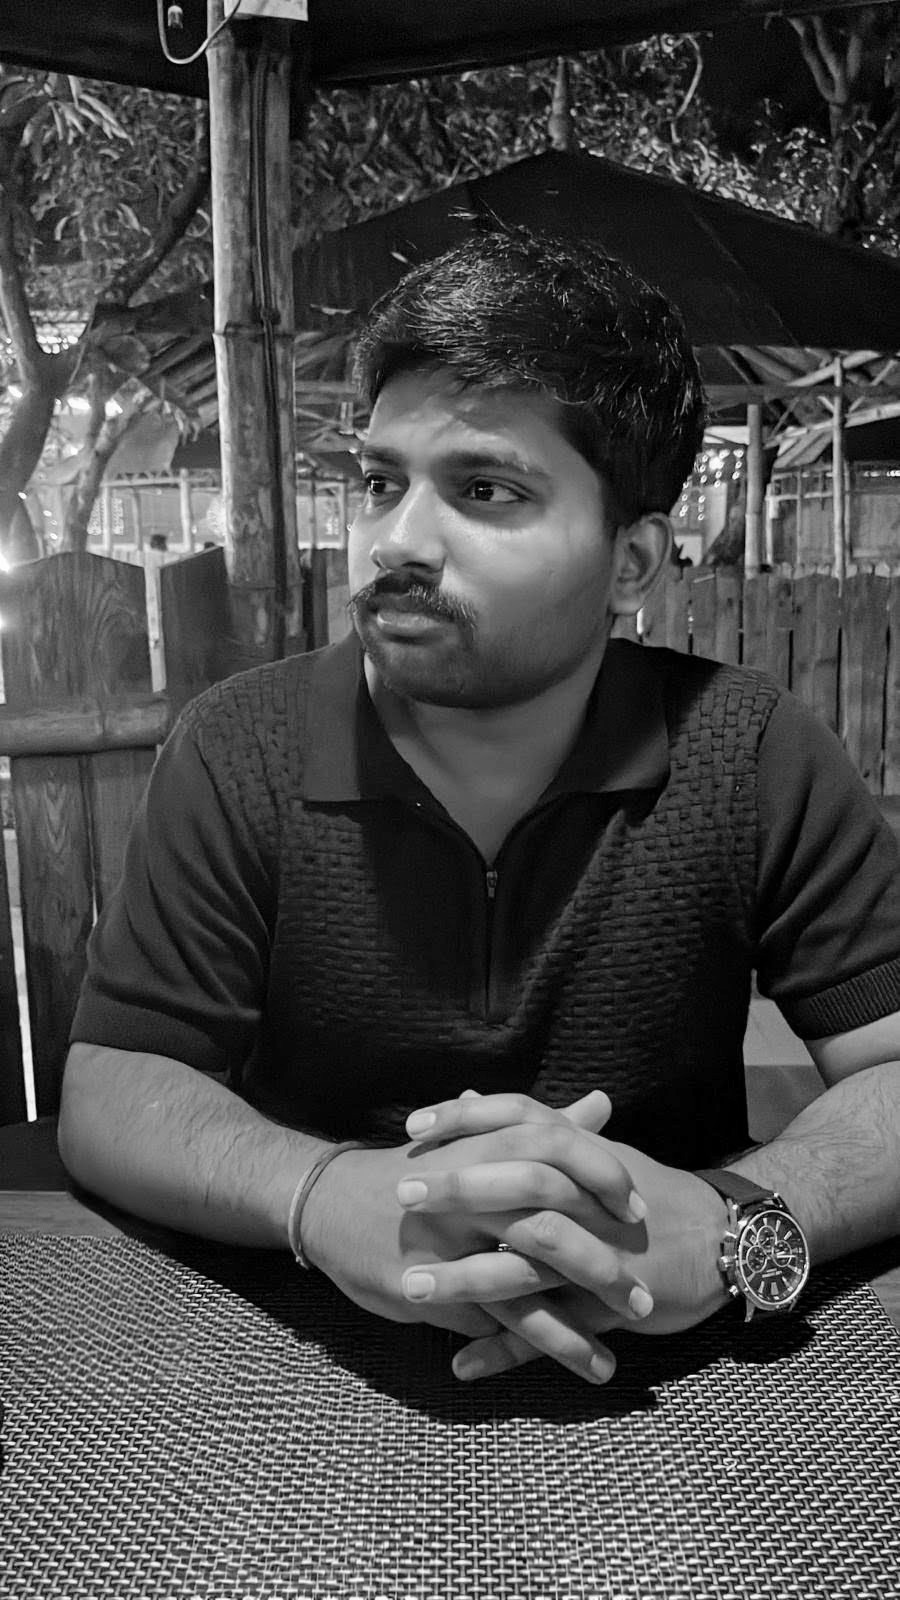
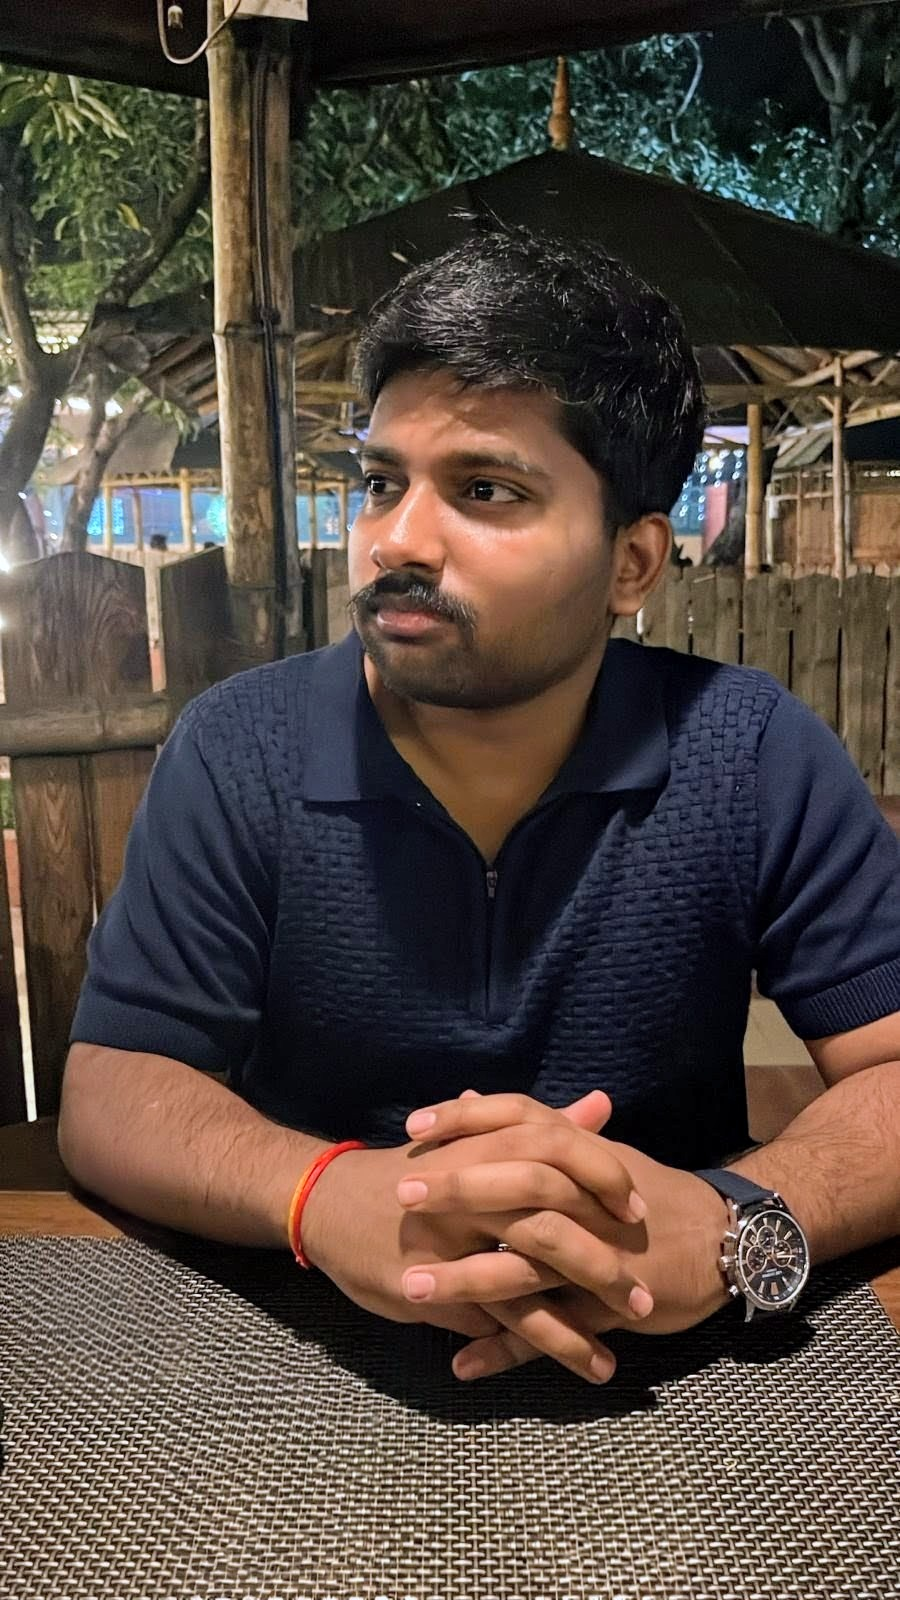
fix: Images glow when hovered and grayscale is removed on hover

diff --git a/src/components/sections/Hero.jsx b/src/components/sections/Hero.jsx
@@ -309,9 +309,8 @@ export default function Hero({ onTerminalToggle }) {
           </div>
         </div>
 
-        {/* Right Column - Images */}
         <div className="relative h-[500px] flex items-center justify-center">
-          <div className="relative z-10 w-64 h-80 bg-gradient-to-br from-green-500/20 to-cyan-500/20 border border-green-500/30 rounded-lg overflow-hidden shadow-2xl shadow-green-500/20">
+          <div className="relative z-10 w-64 h-80 bg-gradient-to-br border-2 border-white rounded-lg overflow-hidden shadow-2xl shadow-green-500/20 transition-all duration-300 hover:border-amber-300/70 hover:shadow-[0_0_18px_rgba(251,146,60,0.35),0_0_35px_rgba(251,146,60,0.2),0_0_50px_rgba(251,146,60,0.1)] hover:cursor-pointer">
             <img
               src="/Main.jpg"
               alt="Ajinkya Kale"
@@ -319,19 +318,19 @@ export default function Hero({ onTerminalToggle }) {
             />
           </div>
 
-          <div className="absolute top-8 left-8 w-48 h-56 bg-gradient-to-br from-purple-500/20 to-pink-500/20 border border-purple-500/30 rounded-lg overflow-hidden shadow-xl transform -rotate-6 hover:rotate-0 transition-transform duration-300">
+          <div className="absolute top-8 left-8 w-48 h-56 bg-gradient-to-br from-teal-500/20 to-cyan-500/20 border-2 border-white rounded-lg overflow-hidden shadow-xl transform -rotate-6 hover:rotate-0 transition-all duration-300 hover:border-teal-300/70 hover:shadow-[0_0_18px_rgba(20,184,166,0.35),0_0_35px_rgba(20,184,166,0.2),0_0_50px_rgba(20,184,166,0.1)] hover:cursor-pointer">
             <img
               src="/Left.png"
               alt="Left Pic"
-              className="w-full h-full object-cover"
+              className="w-full h-full object-cover grayscale hover:grayscale-0 transition-all duration-300"
             />
           </div>
 
-          <div className="absolute bottom-12 right-8 w-48 h-56 bg-gradient-to-br from-orange-500/20 to-red-500/20 border border-orange-500/30 rounded-lg overflow-hidden shadow-xl transform rotate-6 hover:rotate-0 transition-transform duration-300">
+          <div className="absolute bottom-12 right-8 w-48 h-56 bg-gradient-to-br from-orange-500/20 to-red-500/20 border-2 border-white rounded-lg overflow-hidden shadow-xl transform rotate-6 hover:rotate-0 transition-all duration-300 hover:border-blue-400/70 hover:shadow-[0_0_22px_rgba(29,78,216,0.5),0_0_45px_rgba(29,78,216,0.35),0_0_65px_rgba(29,78,216,0.2)] hover:cursor-pointer">
             <img
               src="/Bottom-Right.jpg"
               alt="Bottom Right pic"
-              className="w-full h-full object-cover"
+              className="w-full h-full object-cover grayscale hover:grayscale-0 transition-all duration-300"
             />
           </div>
         </div>
